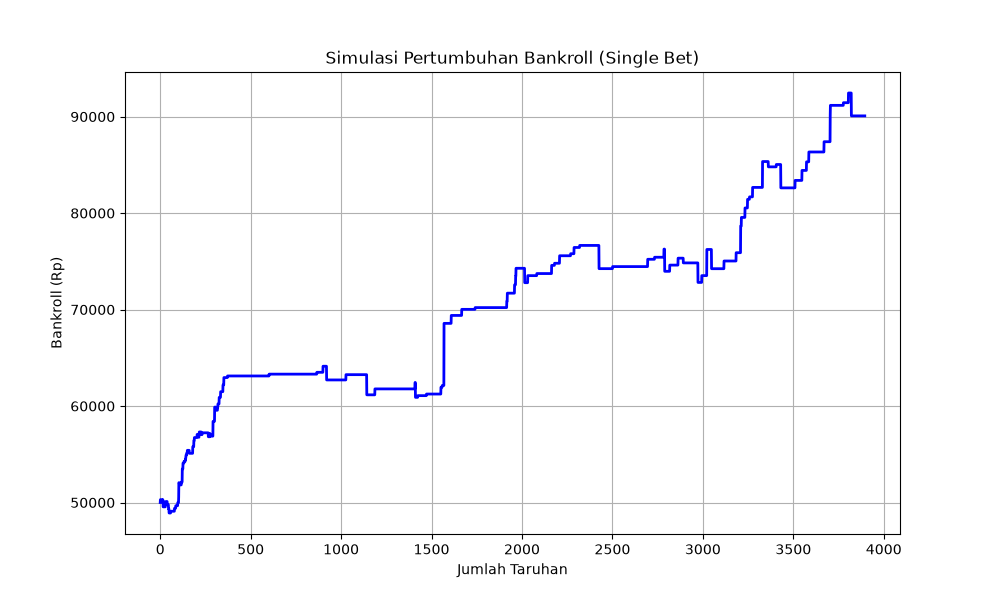
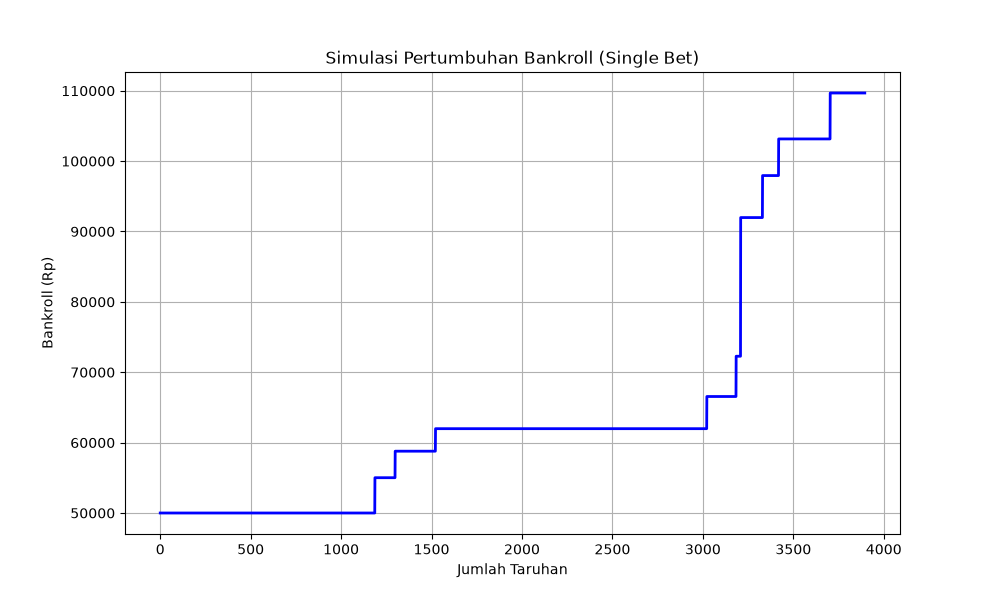
feat(rl): meningkatkan performa rl

diff --git a/website/backend/src/betting/rl.py b/website/backend/src/betting/rl.py
@@ -4,6 +4,9 @@ import joblib
 from pathlib import Path
 from config import MODELS_DIR
 
+# --- ATURAN REALISTIS BANDAR ---
+MIN_BET_AMOUNT = 10000.0
+
 class BettingState:
     N_EDGE_BINS    = 5
     N_EV_BINS      = 5
@@ -28,15 +31,17 @@ class BettingState:
         return (BettingState.N_EDGE_BINS * BettingState.N_EV_BINS *
                 BettingState.N_KELLY_BINS * BettingState.N_BANKROLL_BINS)
 
+# Mengembalikan opsi fraksi, membiarkan Log-Utility menghukum aksi yang berbahaya
 ACTIONS = {
-    0: 0.00,
-    1: 0.10,
-    2: 0.25,
-    3: 0.50,
+    0: 0.00,  # Skip
+    1: 0.25,  # 25% Kelly
+    2: 0.50,  # 50% Kelly (Half-Kelly)
+    3: 0.75,  # 75% Kelly
+    4: 1.00,  # Full Kelly
 }
 
 class QLearningAgent:
-    def __init__(self, alpha=0.1, gamma=0.90, epsilon=0.5,
+    def __init__(self, alpha=0.1, gamma=0.95, epsilon=0.5,
                  epsilon_decay=0.998, epsilon_min=0.01):
         self.alpha         = alpha
         self.gamma         = gamma
@@ -81,7 +86,7 @@ def _build_bet_sequence(df_bets: pd.DataFrame) -> list:
         })
     return sequence
 
-def train_rl_agent(df_bets: pd.DataFrame, n_episodes: int = 2000,
+def train_rl_agent(df_bets: pd.DataFrame, n_episodes: int = 3000,
                    init_bankroll: float = 50000.0) -> QLearningAgent:
     
     agent    = QLearningAgent()
@@ -89,7 +94,7 @@ def train_rl_agent(df_bets: pd.DataFrame, n_episodes: int = 2000,
     if not sequence:
         return agent
 
-    n_episodes = 2000
+    n_episodes = 3000
 
     for episode in range(n_episodes):
         bankroll = init_bankroll
@@ -102,20 +107,24 @@ def train_rl_agent(df_bets: pd.DataFrame, n_episodes: int = 2000,
             state  = BettingState.discretize(edge, ev, kelly_f, br_ratio)
             action = agent.choose_action(state)
             frac   = ACTIONS[action] * kelly_f
+            
+            raw_stake = bankroll * frac
 
-            if action == 0:
+            # JIKA SKIP ATAU TARUHAN DI BAWAH BATAS MINIMAL -> BATALKAN
+            if action == 0 or raw_stake < MIN_BET_AMOUNT:
                 profit = 0.0
-                reward = 0.0
+                reward = 0.0  # Netral sempurna, tidak ada reward/hukuman buatan
             else:
-                stake = bankroll * frac
                 if bet['won']:
-                    profit  = stake * (bet['odds'] - 1.0)
-                    reward  = (profit / bankroll) * 1.2
+                    profit  = raw_stake * (bet['odds'] - 1.0)
                 else:
-                    profit  = -stake
-                    reward  = (profit / bankroll) * 1.0
+                    profit  = -raw_stake
+                
+                # LOG UTILITY MURNI: Evaluasi berdasarkan riil pertumbuhan aset
+                ratio = (bankroll + profit) / bankroll
+                reward = np.log(max(0.0001, ratio)) * 100.0
 
-            bankroll = max(50.0, bankroll + profit) 
+            bankroll = max(100.0, bankroll + profit) 
             new_ratio= bankroll / init_bankroll
             new_state= BettingState.discretize(edge, ev, kelly_f, new_ratio)
             agent.update(state, action, reward, new_state)
@@ -139,12 +148,21 @@ def rl_recommend(agent: QLearningAgent, bets: list,
         
         stake  = current_bankroll * frac
         
+        # FILTER FINAL SAAT REKOMENDASI LIVE
+        if stake < MIN_BET_AMOUNT and action > 0:
+            action = 0
+            stake = 0.0
+            frac = 0.0
+            desc = "Skip (Modal/Kelly di bawah minimal Rp 10.000)"
+        else:
+            desc = f"Bet {int(ACTIONS[action]*100)}% of Kelly = Rp {stake:,.2f}" if action > 0 else "Bet 0% (Skip)"
+            
         recommendations.append({
             **bet,
             'rl_action':      action,
             'rl_kelly_frac':  round(frac, 4),
             'rl_stake':       round(stake, 2),
-            'rl_description': f"Bet {int(ACTIONS[action]*100)}% of Kelly = Rp {stake:,.2f}",
+            'rl_description': desc,
         })
         
         if action > 0:
@@ -152,7 +170,7 @@ def rl_recommend(agent: QLearningAgent, bets: list,
                 current_bankroll += stake * (bet.get('bookie_odds', 2.0) - 1.0)
             else:
                 current_bankroll -= stake
-            current_bankroll = max(50.0, current_bankroll)
+            current_bankroll = max(100.0, current_bankroll)
 
     return recommendations
 
